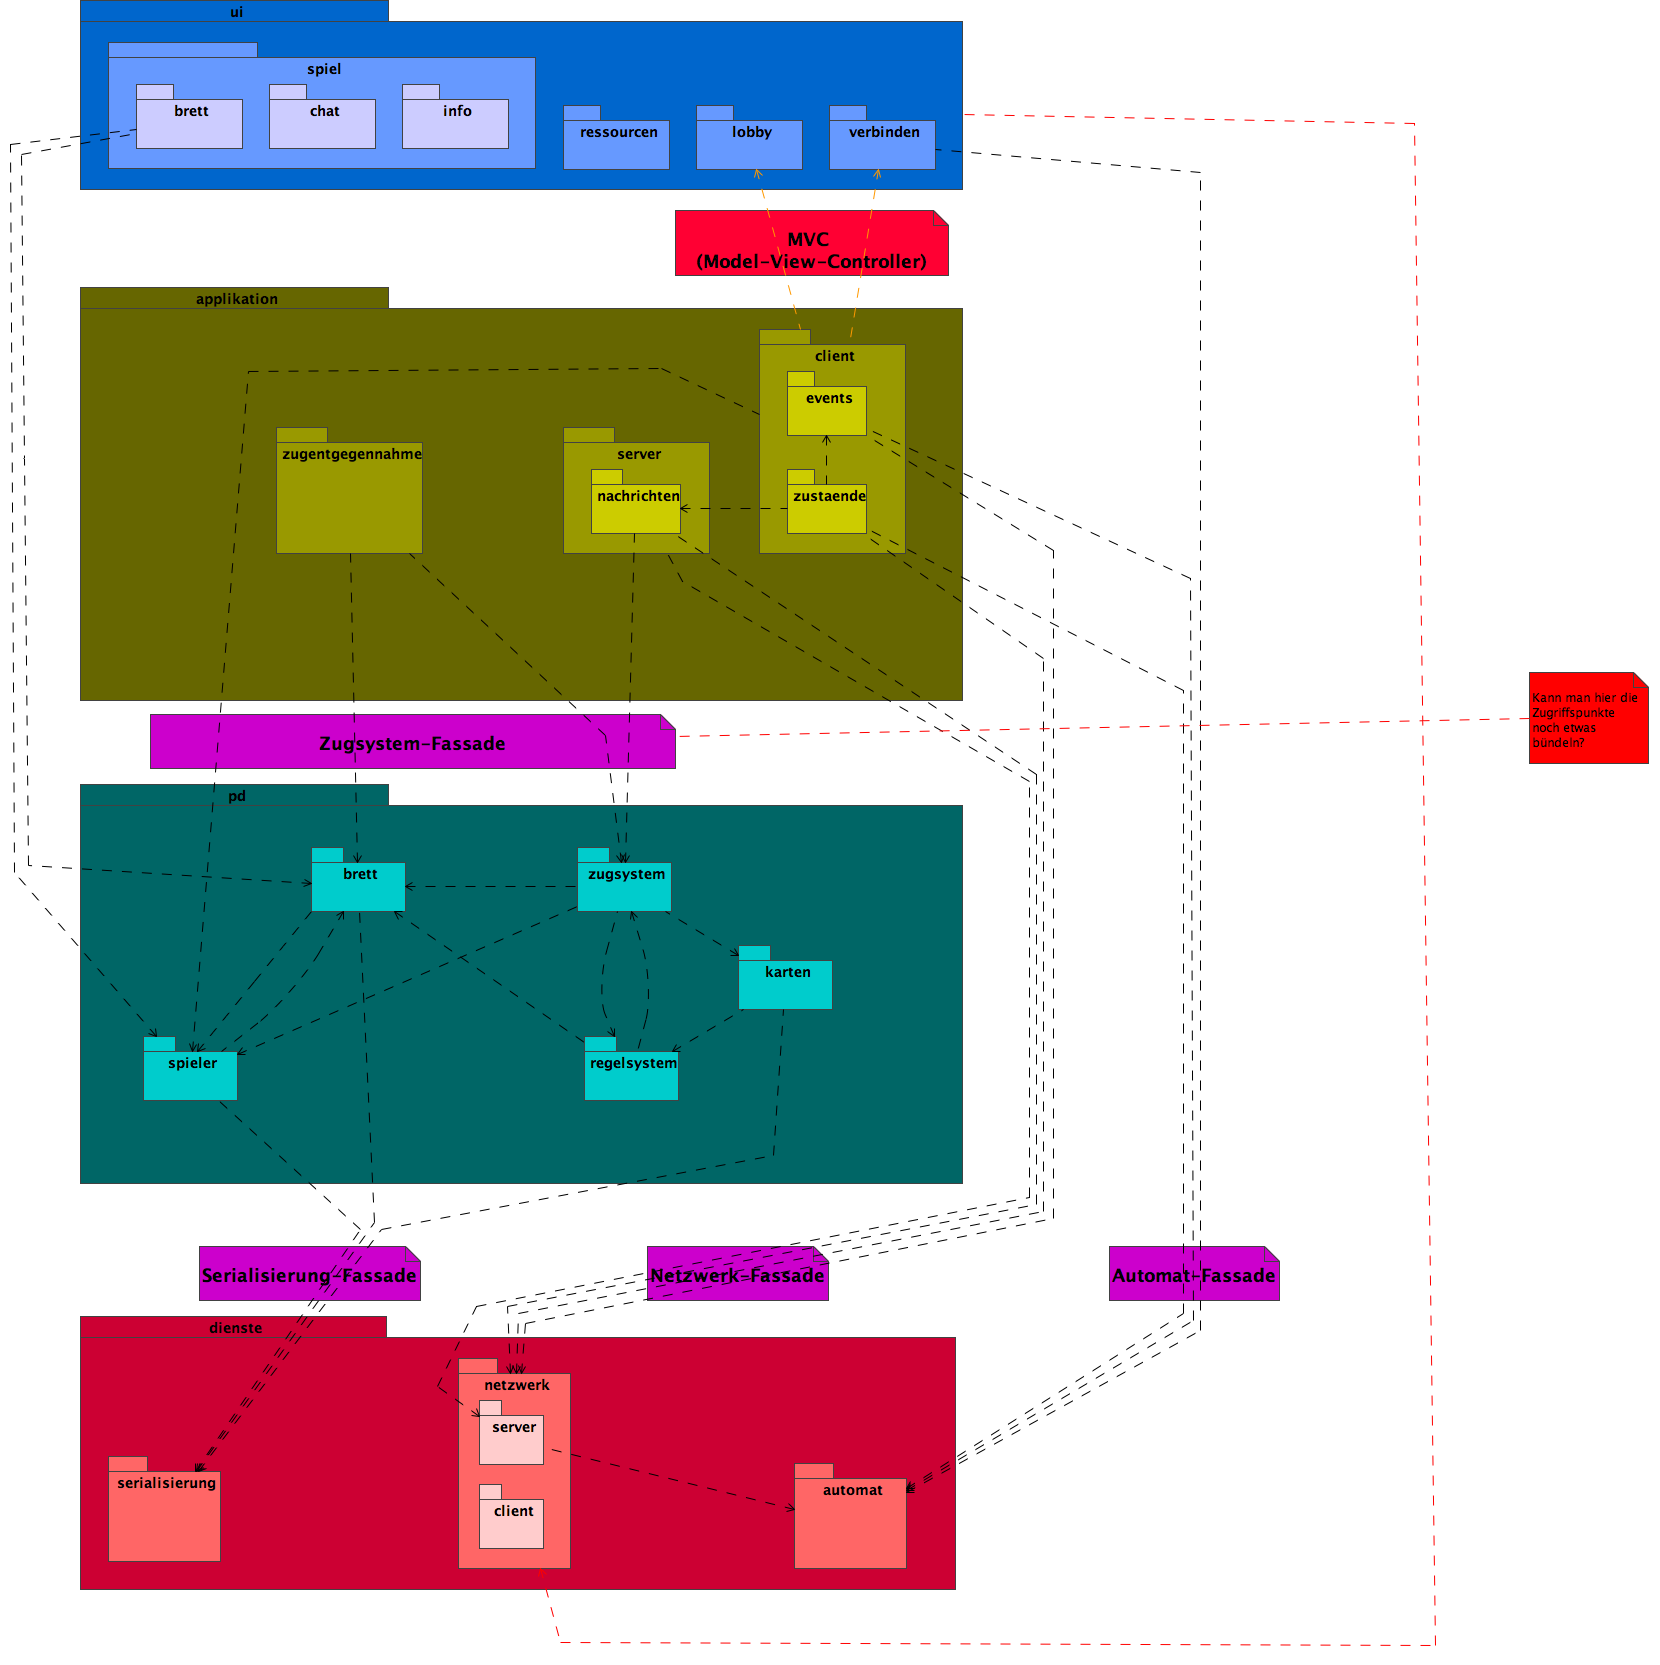
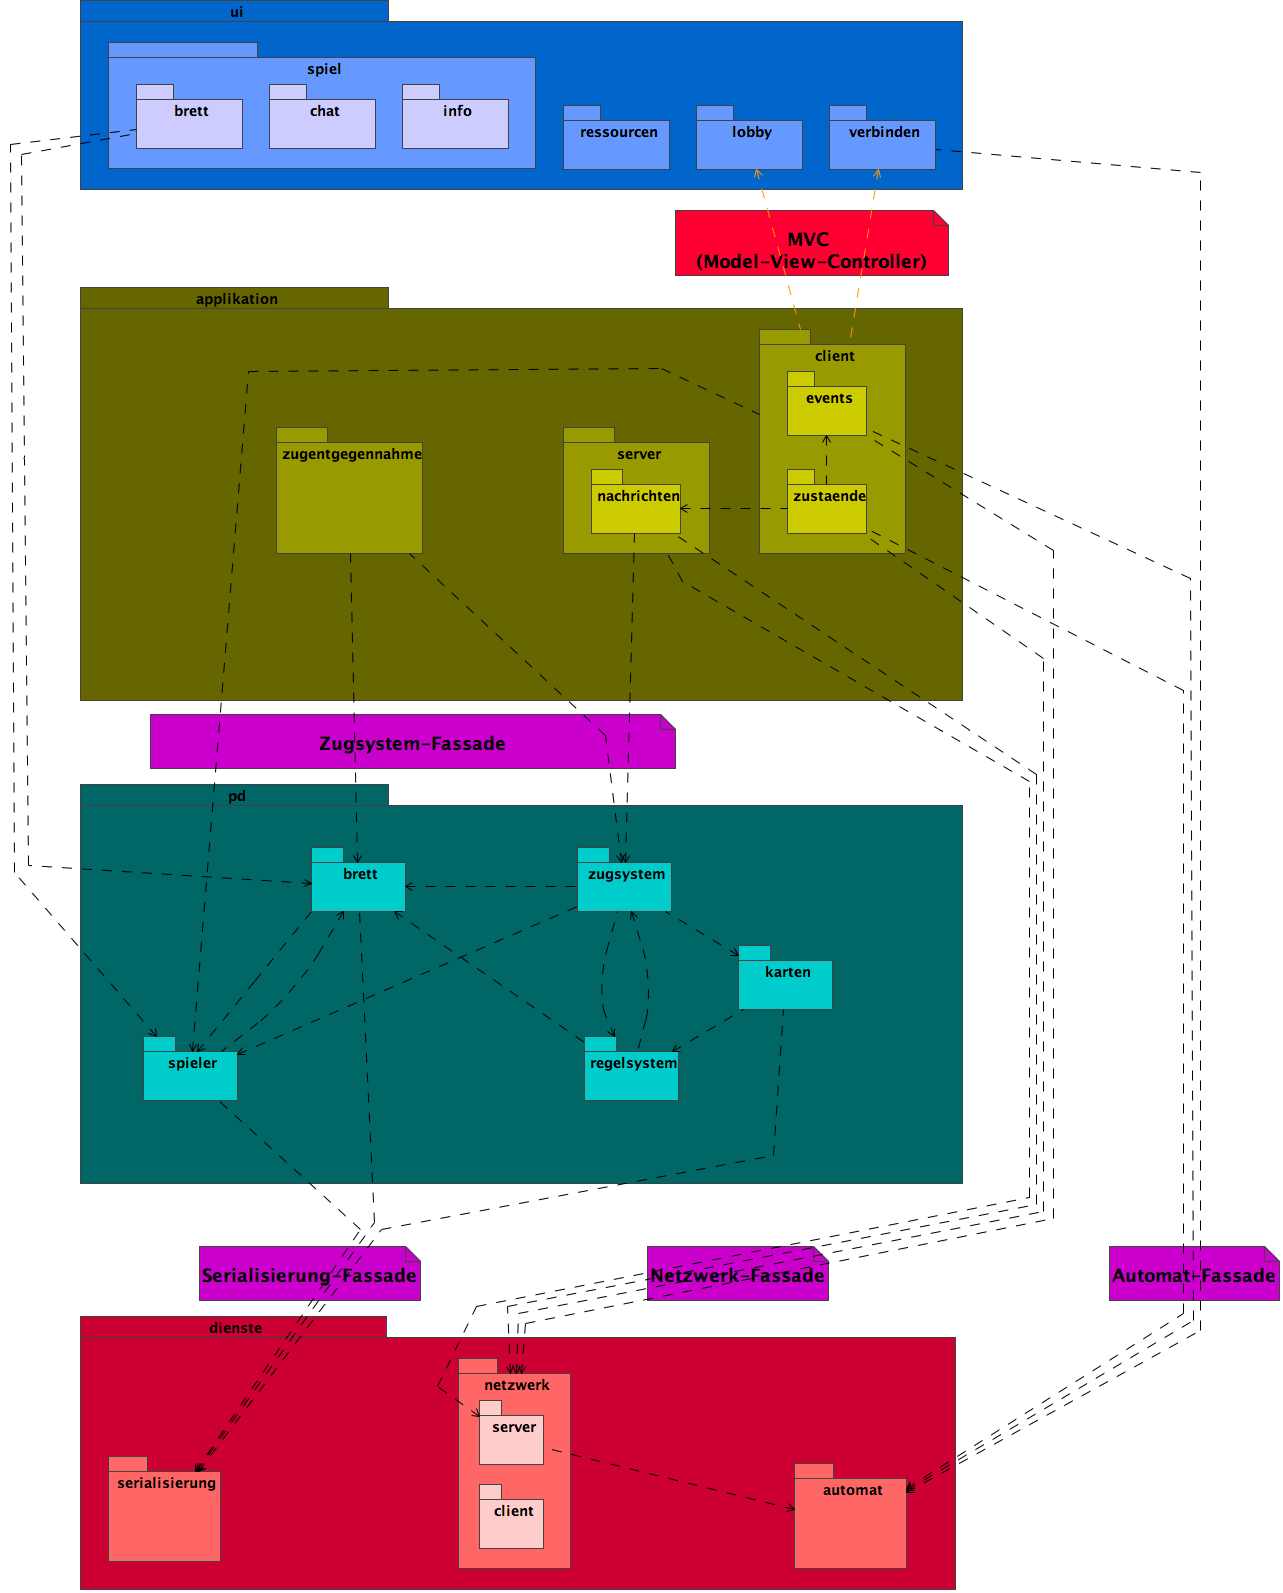
- Bildgrössen und ein paar Fehler korrigiert  - Packagebeschreibung zu applikation.event / applikation.nachrichten
svn path=/trunk/; revision=608

diff --git a/doc/design/design.tex b/doc/design/design.tex
@@ -277,13 +277,6 @@ Die UI-Schicht ist für die graphische Darstellung verantwortlich. Sie kommunizi
 \subparagraph{Beschreibung}
 Die Applikationsschicht ist für die Zustandsynchronisation (Spielstände usw.) verantwortlich. 
 
-\subparagraph{Schnittstellen} % (fold)
-\label{ssub:schnittstellen}
-Beschreibung der Schnittstellen
-% subparagraph schnittstellen (end)
-% paragraph package_applikation (end)
-
-\clearpage
 \subsubsection{Package applikation.zugentgegennahme} % (fold)
 \label{ssub:package_applikation_zugentgegennahme}
 \subparagraph{Beschreibung}
@@ -351,35 +344,16 @@ bla...
 \label{ssub:package_applikation_events} % (fold)
 \subparagraph{Beschreibung}
 \label{ssub:beschreibung}
-bla...
+Dieses Package beinhaltet die Events, die eintreten können. Diese werden dann verwendet um die Handels aufzurufen, die dazu führen von einem Zustand auf einen anderen Zustand zu wechseln.
 % subparagraph beschreibung (end)
-
-\subparagraph{Schnittstellen}
-\label{ssub:schnittstellen}
-\begin{itemize}
-	\item bla...
-\end{itemize}
-% subparagraph schnittstellen (end)
-% subsubsection package_applikation_events (end)
 
 \clearpage
 \subsubsection{Package applikation.nachrichten}
 \label{ssub:package_applikation_nachrichten} % (fold)
 \subparagraph{Beschreibung}
 \label{ssub:beschreibung}
-bla...
-% subparagraph beschreibung (end)
+Dieses Package beinhaltet alle Möglichen Nachrichtentypen, die zur Kommunikation zwischen Client und Server dienen.
 
-\subparagraph{Schnittstellen}
-\label{ssub:schnittstellen}
-\begin{itemize}
-	\item bla...
-\end{itemize}
-% subparagraph schnittstellen (end)
-% subsubsection package_applikation_nachrichten (end)
-
-% subsubsection design_pakete (end)
-% subsection logische_architektur (end)
 
 \clearpage
 
@@ -545,6 +519,7 @@ Die Abbildung~\vref{fig:dienste_rundenstart} zeigt den Ablauf beim Start einer n
 \end{figure}
 % subsection rundenstart (end)
 
+\clearpage
 \subsection{Validierung von Spielzügen} % (fold)
 \label{ssub:validierung_von_spielzügen}
 Abbildung~\vref{fig:pd_validierung} zeigt die Validierung der Spielzüge.
@@ -588,6 +563,7 @@ Die Abildung~\vref{fig:dienste_partnerschaft_normal} zeigt Ablauf des Bildens vo
 \end{figure}
 % subsection partnerschaften_bilden (end)
 
+\clearpage
 \subsection{Chat} % (fold)
 \label{sub:nachrichtenaustausch_zwischen_client_und_server}
 Abbildung~\vref{fig:dienste_chat} zeigt den Verlauf des Nachrichtenaustauschen zwischen den Clients und dem Server am Beispiel einer Chat-Nachricht.
